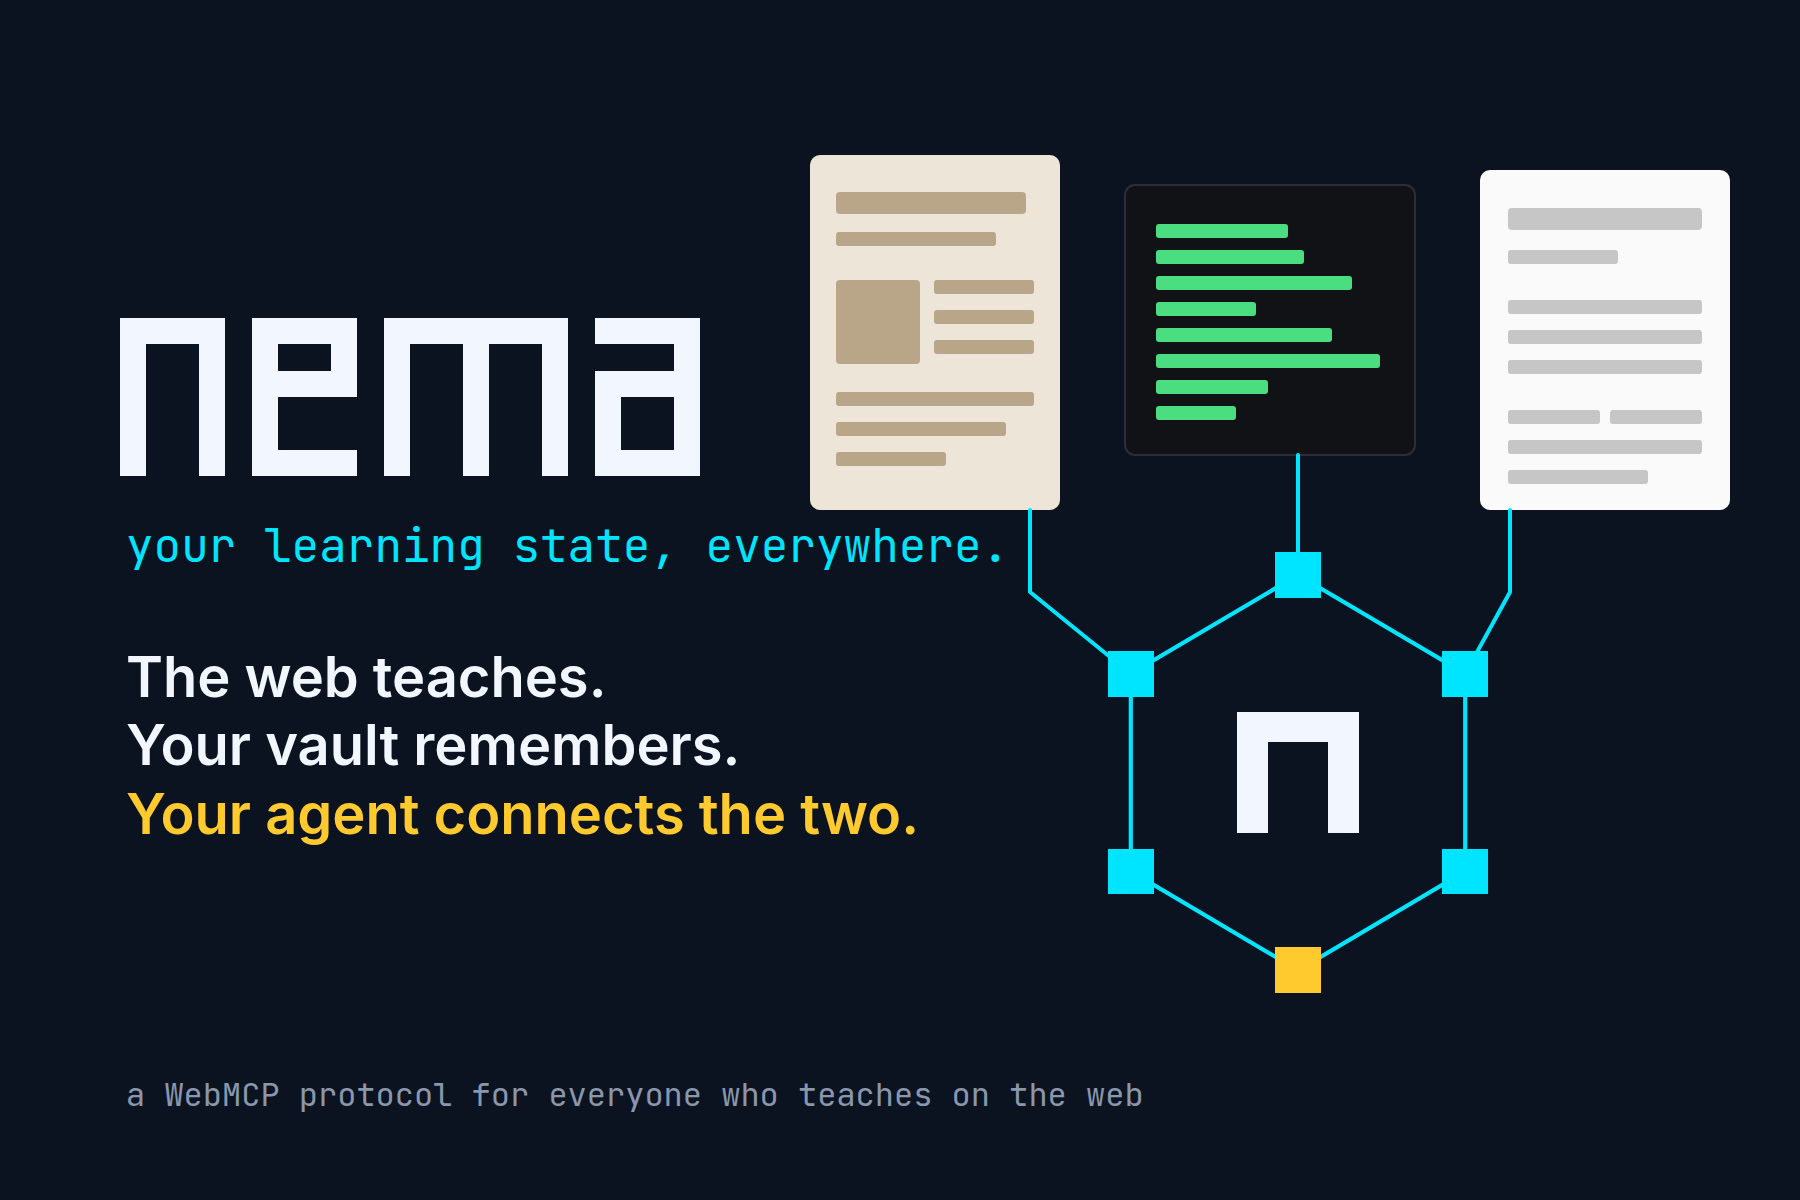
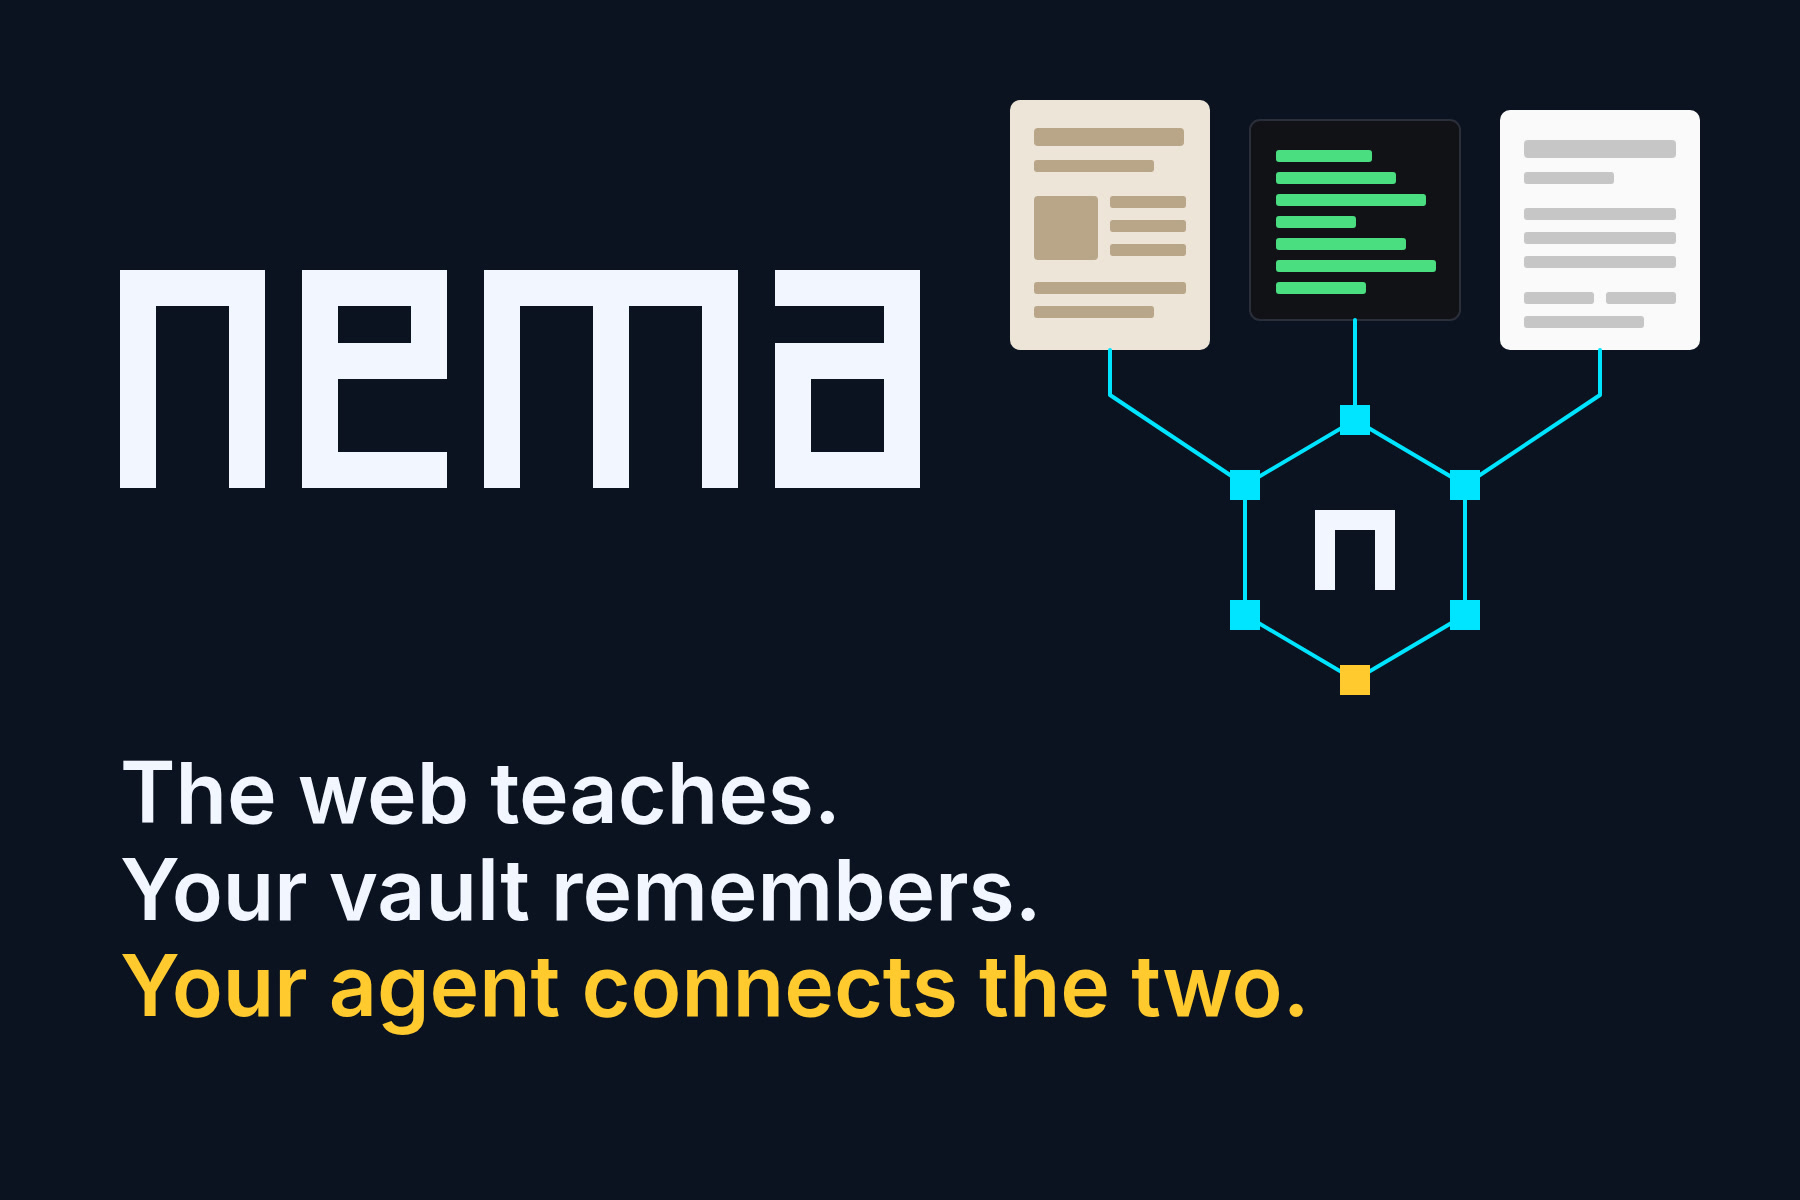
thumbnail: sized for the 270px devpost card, three lines and the mark
Claude-Session: https://claude.ai/code/session_01AfeggrhBqzmN8guag9N5jj

diff --git a/docs/assets/devpost-thumbnail.html b/docs/assets/devpost-thumbnail.html
@@ -6,37 +6,34 @@
   html, body { margin: 0; background: #0B1320; }
   .card { position: relative; width: 1800px; height: 1200px; overflow: hidden; background: #0B1320; font-family: var(--font-ui, Inter, sans-serif); color: #F2F6FF; }
   .diagram { position: absolute; inset: 0; width: 1800px; height: 1200px; }
-  .copy { position: absolute; left: 120px; top: 318px; width: 900px; }
-  .word { width: 580px; color: #F2F6FF; }
+  .word { position: absolute; left: 120px; top: 270px; width: 800px; color: #F2F6FF; }
   .word svg { width: 100%; height: auto; display: block; }
-  .tag { margin: 44px 0 0 6px; font-family: var(--font-mono, "JetBrains Mono", monospace); font-size: 46px; color: #00E5FF; line-height: 1.15; white-space: nowrap; }
-  .sub { margin: 70px 0 0 6px; font-size: 56px; line-height: 1.22; font-weight: 600; color: #F2F6FF; }
+  .sub { position: absolute; left: 120px; top: 745px; font-size: 84px; line-height: 1.15; font-weight: 600; color: #F2F6FF; white-space: nowrap; }
   .sub .a { color: #FFCA2E; }
-  .foot { position: absolute; left: 126px; bottom: 84px; font-family: var(--font-mono, "JetBrains Mono", monospace); font-size: 32px; color: #8A97AD; white-space: nowrap; }
 </style>
 <div class="card">
   <svg class="diagram" viewBox="0 0 1800 1200" fill="none">
     <defs>
-      <linearGradient id="edge" x1="1298" y1="575" x2="1510" y2="800" gradientUnits="userSpaceOnUse">
+      <linearGradient id="edge" x1="1355" y1="420" x2="1500" y2="580" gradientUnits="userSpaceOnUse">
         <stop offset="0" stop-color="#00E5FF"/><stop offset="0.5" stop-color="#15C4B4"/><stop offset="1" stop-color="#3A78FF"/>
       </linearGradient>
     </defs>
     <!-- three sites -->
-    <rect x="810" y="155" width="250" height="355" rx="10" fill="#EDE6D8"/>
-    <g fill="#B9A688"><rect x="836" y="192" width="190" height="22" rx="4"/><rect x="836" y="232" width="160" height="14" rx="3"/><rect x="836" y="280" width="84" height="84" rx="4"/><rect x="934" y="280" width="100" height="14" rx="3"/><rect x="934" y="310" width="100" height="14" rx="3"/><rect x="934" y="340" width="100" height="14" rx="3"/><rect x="836" y="392" width="198" height="14" rx="3"/><rect x="836" y="422" width="170" height="14" rx="3"/><rect x="836" y="452" width="110" height="14" rx="3"/></g>
-    <rect x="1125" y="185" width="290" height="270" rx="10" fill="#101216" stroke="#2A2F3A" stroke-width="2"/>
-    <g fill="#4ADE80"><rect x="1156" y="224" width="132" height="14" rx="3"/><rect x="1156" y="250" width="148" height="14" rx="3"/><rect x="1156" y="276" width="196" height="14" rx="3"/><rect x="1156" y="302" width="100" height="14" rx="3"/><rect x="1156" y="328" width="176" height="14" rx="3"/><rect x="1156" y="354" width="224" height="14" rx="3"/><rect x="1156" y="380" width="112" height="14" rx="3"/><rect x="1156" y="406" width="80" height="14" rx="3"/></g>
-    <rect x="1480" y="170" width="250" height="340" rx="10" fill="#FAFAFA"/>
-    <g fill="#C6C6C6"><rect x="1508" y="208" width="194" height="22" rx="4"/><rect x="1508" y="250" width="110" height="14" rx="3"/><rect x="1508" y="300" width="194" height="14" rx="3"/><rect x="1508" y="330" width="194" height="14" rx="3"/><rect x="1508" y="360" width="194" height="14" rx="3"/><rect x="1508" y="410" width="92" height="14" rx="3"/><rect x="1610" y="410" width="92" height="14" rx="3"/><rect x="1508" y="440" width="194" height="14" rx="3"/><rect x="1508" y="470" width="140" height="14" rx="3"/></g>
+    <rect x="1010" y="100" width="200" height="250" rx="10" fill="#EDE6D8"/>
+    <g fill="#B9A688"><rect x="1034" y="128" width="150" height="18" rx="4"/><rect x="1034" y="160" width="120" height="12" rx="3"/><rect x="1034" y="196" width="64" height="64" rx="4"/><rect x="1110" y="196" width="76" height="12" rx="3"/><rect x="1110" y="220" width="76" height="12" rx="3"/><rect x="1110" y="244" width="76" height="12" rx="3"/><rect x="1034" y="282" width="152" height="12" rx="3"/><rect x="1034" y="306" width="120" height="12" rx="3"/></g>
+    <rect x="1250" y="120" width="210" height="200" rx="10" fill="#101216" stroke="#2A2F3A" stroke-width="2"/>
+    <g fill="#4ADE80"><rect x="1276" y="150" width="96" height="12" rx="3"/><rect x="1276" y="172" width="120" height="12" rx="3"/><rect x="1276" y="194" width="150" height="12" rx="3"/><rect x="1276" y="216" width="80" height="12" rx="3"/><rect x="1276" y="238" width="130" height="12" rx="3"/><rect x="1276" y="260" width="160" height="12" rx="3"/><rect x="1276" y="282" width="90" height="12" rx="3"/></g>
+    <rect x="1500" y="110" width="200" height="240" rx="10" fill="#FAFAFA"/>
+    <g fill="#C6C6C6"><rect x="1524" y="140" width="152" height="18" rx="4"/><rect x="1524" y="172" width="90" height="12" rx="3"/><rect x="1524" y="208" width="152" height="12" rx="3"/><rect x="1524" y="232" width="152" height="12" rx="3"/><rect x="1524" y="256" width="152" height="12" rx="3"/><rect x="1524" y="292" width="70" height="12" rx="3"/><rect x="1606" y="292" width="70" height="12" rx="3"/><rect x="1524" y="316" width="120" height="12" rx="3"/></g>
     <!-- links into the vault -->
     <g stroke="#00E5FF" stroke-width="4" stroke-linejoin="round" stroke-linecap="round">
-      <path d="M 1030 510 V 592 L 1131 674"/>
-      <path d="M 1298 455 V 575"/>
-      <path d="M 1510 510 V 592 L 1465 674"/>
+      <path d="M 1110 350 V 395 L 1245 485"/>
+      <path d="M 1355 320 V 420"/>
+      <path d="M 1600 350 V 395 L 1465 485"/>
     </g>
     <!-- the nema mark, scaled from shared/brand/mark.svg -->
-    <g transform="translate(1054.8 529.4) scale(7.6)">
-      <path d="M32 6 L54 19 L54 45 L32 58 L10 45 L10 19 Z" fill="#0B1320" stroke="url(#edge)" stroke-width="0.55" stroke-linejoin="miter"/>
+    <g transform="translate(1195 390) scale(5)">
+      <path d="M32 6 L54 19 L54 45 L32 58 L10 45 L10 19 Z" fill="#0B1320" stroke="url(#edge)" stroke-width="0.8" stroke-linejoin="miter"/>
       <g shape-rendering="crispEdges">
         <rect x="29" y="3" width="6" height="6" fill="url(#edge)"/>
         <rect x="51" y="16" width="6" height="6" fill="url(#edge)"/>
@@ -50,10 +47,6 @@
       </g>
     </g>
   </svg>
-  <div class="copy">
-    <div class="word">WORDMARK_SVG</div>
-    <div class="tag">your learning state, everywhere.</div>
-    <div class="sub">The web teaches.<br>Your vault remembers.<br><span class="a">Your agent connects the two.</span></div>
-  </div>
-  <div class="foot">a WebMCP protocol for everyone who teaches on the web</div>
+  <div class="word">WORDMARK_SVG</div>
+  <div class="sub">The web teaches.<br>Your vault remembers.<br><span class="a">Your agent connects the two.</span></div>
 </div>
